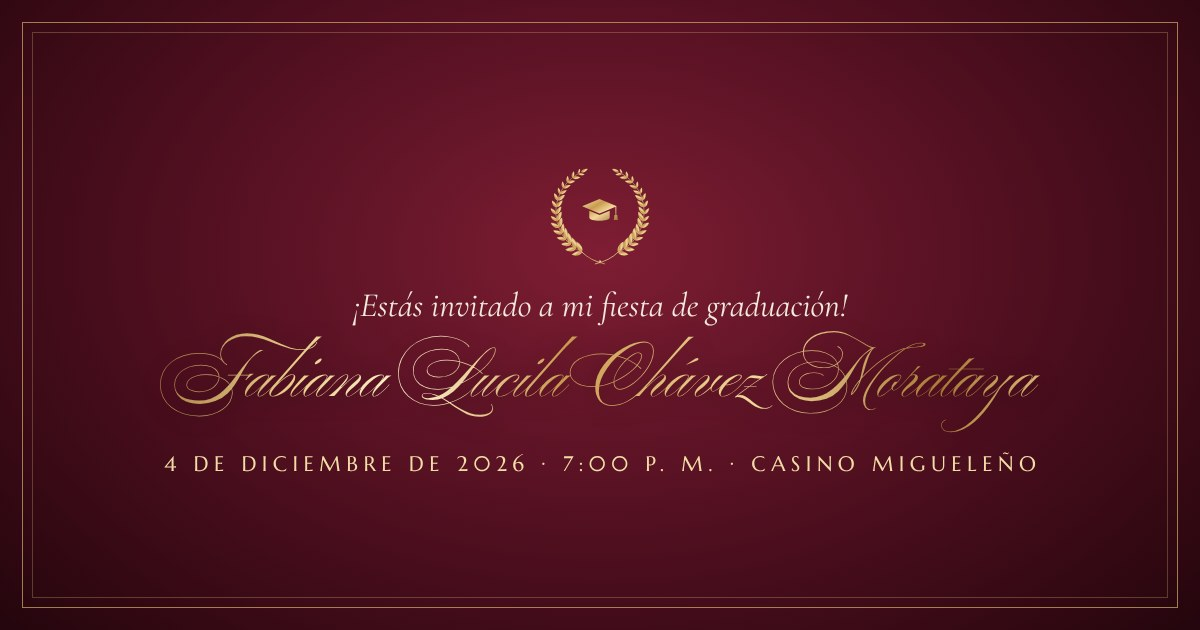
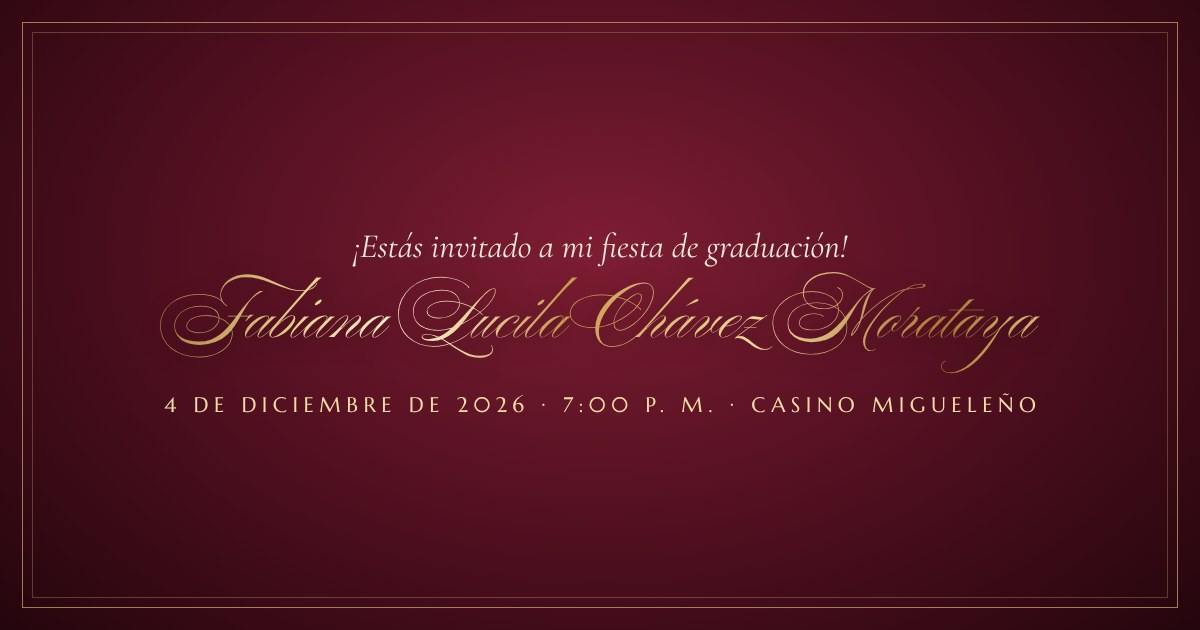
Quita por completo el emblema de arriba (laurel y birrete)
También de la carta dentro del sobre y de la vista previa al compartir.

Claude-Session: https://claude.ai/code/session_01XPoAnZ98Bn3C1SRygTi2LH

diff --git a/index.html b/index.html
@@ -11,7 +11,7 @@
 <meta property="og:url" content="https://admi-gr.github.io/graduacion-fabiana/">
 <meta property="og:title" content="¡Estás invitado a mi fiesta de graduación! · Fabiana Lucila Chávez Morataya">
 <meta property="og:description" content="4 de diciembre de 2026 · 7:00 p. m. · Casino Migueleño">
-<meta property="og:image" content="https://admi-gr.github.io/graduacion-fabiana/preview.jpg?v=2">
+<meta property="og:image" content="https://admi-gr.github.io/graduacion-fabiana/preview.jpg?v=3">
 <meta property="og:image:width" content="1200">
 <meta property="og:image:height" content="630">
 <meta name="twitter:card" content="summary_large_image">
@@ -295,7 +295,6 @@ button.btn{border:0;cursor:pointer}
 
 <main>
   <header class="portada">
-    <div class="laurel aparece" aria-hidden="true" style="--i:0"><svg viewBox="0 0 300 300" width="100%" height="100%" aria-hidden="true"><path d="M104.3,252.3 A112,112 0 0 1 94.2,52.9" fill="none" stroke="url(#lg)" stroke-width="1.6"></path><path d="M195.7,252.3 A112,112 0 0 0 205.8,52.9" fill="none" stroke="url(#lg)" stroke-width="1.6"></path><use href="#lf" transform="translate(104.3 252.3) rotate(-117.9) scale(0.9)"></use><use href="#lf" transform="translate(104.3 252.3) rotate(-193.9) scale(0.8)"></use><use href="#lf" transform="translate(88.9 243.9) rotate(-108.9) scale(0.9)"></use><use href="#lf" transform="translate(88.9 243.9) rotate(-184.9) scale(0.8)"></use><use href="#lf" transform="translate(75 233.1) rotate(-99.9) scale(0.9)"></use><use href="#lf" transform="translate(75 233.1) rotate(-175.9) scale(0.7)"></use><use href="#lf" transform="translate(62.9 220.4) rotate(-90.9) scale(0.9)"></use><use href="#lf" transform="translate(62.9 220.4) rotate(-166.9) scale(0.7)"></use><use href="#lf" transform="translate(52.9 205.9) rotate(-81.9) scale(0.8)"></use><use href="#lf" transform="translate(52.9 205.9) rotate(-157.9) scale(0.7)"></use><use href="#lf" transform="translate(45.4 190) rotate(-72.9) scale(0.8)"></use><use href="#lf" transform="translate(45.4 190) rotate(-148.9) scale(0.7)"></use><use href="#lf" transform="translate(40.4 173.1) rotate(-63.9) scale(0.8)"></use><use href="#lf" transform="translate(40.4 173.1) rotate(-139.9) scale(0.6)"></use><use href="#lf" transform="translate(38.1 155.7) rotate(-54.9) scale(0.7)"></use><use href="#lf" transform="translate(38.1 155.7) rotate(-130.9) scale(0.6)"></use><use href="#lf" transform="translate(38.6 138.1) rotate(-45.9) scale(0.7)"></use><use href="#lf" transform="translate(38.6 138.1) rotate(-121.9) scale(0.6)"></use><use href="#lf" transform="translate(41.9 120.8) rotate(-36.9) scale(0.7)"></use><use href="#lf" transform="translate(41.9 120.8) rotate(-112.9) scale(0.6)"></use><use href="#lf" transform="translate(47.8 104.3) rotate(-27.9) scale(0.6)"></use><use href="#lf" transform="translate(47.8 104.3) rotate(-103.9) scale(0.5)"></use><use href="#lf" transform="translate(56.2 88.8) rotate(-18.9) scale(0.6)"></use><use href="#lf" transform="translate(56.2 88.8) rotate(-94.9) scale(0.5)"></use><use href="#lf" transform="translate(66.9 74.9) rotate(-9.9) scale(0.6)"></use><use href="#lf" transform="translate(66.9 74.9) rotate(-85.9) scale(0.5)"></use><use href="#lf" transform="translate(79.7 62.8) rotate(-0.9) scale(0.6)"></use><use href="#lf" transform="translate(79.7 62.8) rotate(-76.9) scale(0.5)"></use><use href="#lf" transform="translate(94.2 52.9) rotate(8.1) scale(0.5)"></use><use href="#lf" transform="translate(94.2 52.9) rotate(-67.9) scale(0.4)"></use><use href="#lf" transform="translate(102.1 48.7) rotate(-25.3) scale(.55)"></use><use href="#lf" transform="translate(195.7 252.3) rotate(297.9) scale(0.9)"></use><use href="#lf" transform="translate(195.7 252.3) rotate(373.9) scale(0.8)"></use><use href="#lf" transform="translate(211.1 243.9) rotate(288.9) scale(0.9)"></use><use href="#lf" transform="translate(211.1 243.9) rotate(364.9) scale(0.8)"></use><use href="#lf" transform="translate(225 233.1) rotate(279.9) scale(0.9)"></use><use href="#lf" transform="translate(225 233.1) rotate(355.9) scale(0.7)"></use><use href="#lf" transform="translate(237.1 220.4) rotate(270.9) scale(0.9)"></use><use href="#lf" transform="translate(237.1 220.4) rotate(346.9) scale(0.7)"></use><use href="#lf" transform="translate(247.1 205.9) rotate(261.9) scale(0.8)"></use><use href="#lf" transform="translate(247.1 205.9) rotate(337.9) scale(0.7)"></use><use href="#lf" transform="translate(254.6 190) rotate(252.9) scale(0.8)"></use><use href="#lf" transform="translate(254.6 190) rotate(328.9) scale(0.7)"></use><use href="#lf" transform="translate(259.6 173.1) rotate(243.9) scale(0.8)"></use><use href="#lf" transform="translate(259.6 173.1) rotate(319.9) scale(0.6)"></use><use href="#lf" transform="translate(261.9 155.7) rotate(234.9) scale(0.7)"></use><use href="#lf" transform="translate(261.9 155.7) rotate(310.9) scale(0.6)"></use><use href="#lf" transform="translate(261.4 138.1) rotate(225.9) scale(0.7)"></use><use href="#lf" transform="translate(261.4 138.1) rotate(301.9) scale(0.6)"></use><use href="#lf" transform="translate(258.1 120.8) rotate(216.9) scale(0.7)"></use><use href="#lf" transform="translate(258.1 120.8) rotate(292.9) scale(0.6)"></use><use href="#lf" transform="translate(252.2 104.3) rotate(207.9) scale(0.6)"></use><use href="#lf" transform="translate(252.2 104.3) rotate(283.9) scale(0.5)"></use><use href="#lf" transform="translate(243.8 88.8) rotate(198.9) scale(0.6)"></use><use href="#lf" transform="translate(243.8 88.8) rotate(274.9) scale(0.5)"></use><use href="#lf" transform="translate(233.1 74.9) rotate(189.9) scale(0.6)"></use><use href="#lf" transform="translate(233.1 74.9) rotate(265.9) scale(0.5)"></use><use href="#lf" transform="translate(220.3 62.8) rotate(180.9) scale(0.6)"></use><use href="#lf" transform="translate(220.3 62.8) rotate(256.9) scale(0.5)"></use><use href="#lf" transform="translate(205.8 52.9) rotate(171.9) scale(0.5)"></use><use href="#lf" transform="translate(205.8 52.9) rotate(247.9) scale(0.4)"></use><use href="#lf" transform="translate(197.9 48.7) rotate(205.3) scale(.55)"></use><path d="M104,252 Q126,274 162,282 M196,252 Q174,274 138,282" fill="none" stroke="url(#lg)" stroke-width="2" stroke-linecap="round"></path><circle cx="150" cy="276" r="3.2" fill="url(#lg)"></circle><g transform="translate(150 146) scale(1.3) translate(-51 -46.2)"><use href="#birrete" fill="url(#lg)"></use></g></svg></div>
     <p class="invita aparece" style="--i:1">¡Estás invitado a mi fiesta<br>de graduación!</p>
       <figure class="foto aparece" style="--i:2">
         <div class="foto-cuadro">

diff --git a/carta/index.html b/carta/index.html
@@ -11,7 +11,7 @@
 <meta property="og:url" content="https://admi-gr.github.io/graduacion-fabiana/carta/">
 <meta property="og:title" content="¡Estás invitado a mi fiesta de graduación! · Fabiana Lucila Chávez Morataya">
 <meta property="og:description" content="4 de diciembre de 2026 · 7:00 p. m. · Casino Migueleño">
-<meta property="og:image" content="https://admi-gr.github.io/graduacion-fabiana/preview.jpg?v=2">
+<meta property="og:image" content="https://admi-gr.github.io/graduacion-fabiana/preview.jpg?v=3">
 <meta property="og:image:width" content="1200">
 <meta property="og:image:height" content="630">
 <meta name="twitter:card" content="summary_large_image">
@@ -280,7 +280,7 @@ button.btn{border:0;cursor:pointer}
   <div class="caida">
     <div class="env">
       <div class="env-fondo"></div>
-      <div class="carta" aria-hidden="true"><svg viewBox="0 0 300 300"><use href="#laurel"></use></svg></div>
+      <div class="carta" aria-hidden="true"></div>
       <div class="env-frente" aria-hidden="true">
         <svg viewBox="0 0 100 70" preserveAspectRatio="none">
           <path d="M0,0 L50,37.8 L100,0 L100,70 L0,70Z" fill="url(#frenteGrad)"></path>
@@ -310,7 +310,6 @@ button.btn{border:0;cursor:pointer}
     <div class="marco" aria-hidden="true"></div>
     <span class="esq a" aria-hidden="true"></span><span class="esq b" aria-hidden="true"></span><span class="esq c" aria-hidden="true"></span><span class="esq d" aria-hidden="true"></span>
     <div class="contenido">
-      <div class="laurel aparece" aria-hidden="true" style="--i:0"><svg viewBox="0 0 300 300"><use href="#laurel"></use></svg></div>
       <p class="invita aparece" style="--i:1">¡Estás invitado a mi fiesta<br>de graduación!</p>
       <figure class="foto aparece" style="--i:2">
         <div class="foto-cuadro">
